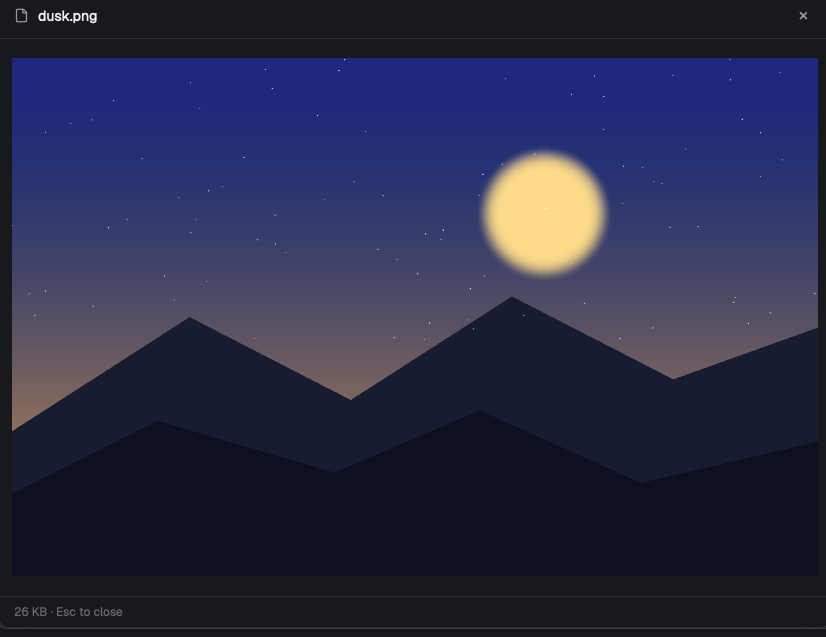
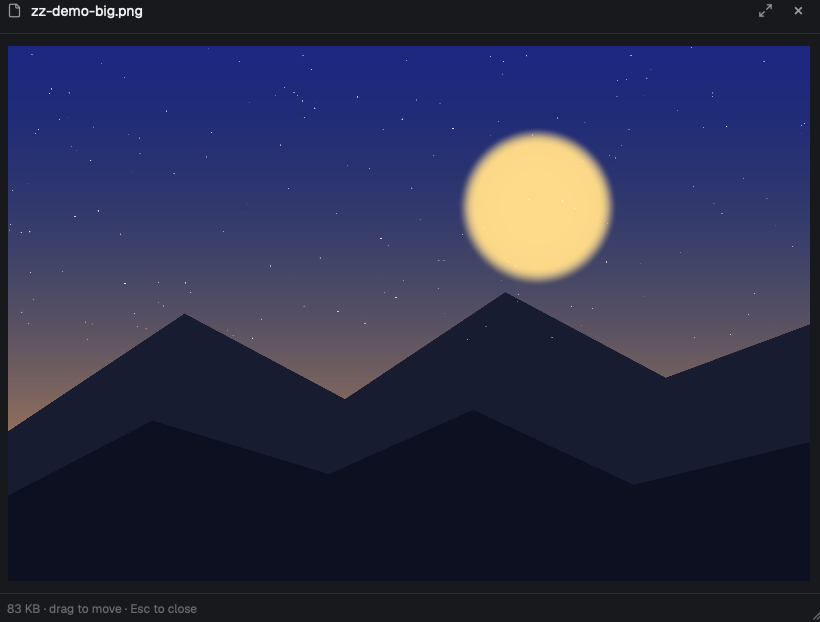
Open image previews on click in a movable, resizable window

diff --git a/mods/files-extras/main.js b/mods/files-extras/main.js
@@ -28,6 +28,30 @@ const MARKDOWN = new Set(["md", "markdown", "mdx"]);
 // An absolute POSIX path, or a Windows drive path (`C:\…` / `C:/…`).
 const absolutePath = (p) => p.startsWith("/") || /^[A-Za-z]:[\\/]/.test(p);
 const baseName = (p) => p.split(/[\\/]/).pop();
+// The preview window's smallest size and where it opens: a small margin
+// from the app window's top-left, leaving its tab bar visible.
+const PREVIEW_MIN = { width: 360, height: 260 };
+const previewAt = () => {
+  const v = previewViewport();
+  return v ? { x: Math.round(v.width * 0.015), y: Math.round(v.height * 0.03) } : { x: 40, y: 64 };
+};
+const clamp = (n, lo, hi) => Math.min(hi, Math.max(lo, n));
+// `herdr`'s `window` is the app's platform object; the global one is GPUI's
+// window and knows the drawable area. Overlay sizes are zoomed layout px,
+// while `at` and the viewport are window pixels, so the two are not the
+// same unit when the person has zoomed the app.
+const previewViewport = () => {
+  try {
+    const v = globalThis.window?.viewport_size?.();
+    return v && Number.isFinite(v.width) && v.width > 0 ? v : null;
+  } catch {
+    return null;
+  }
+};
+const previewZoom = () => {
+  const z = Number(settings().zoom);
+  return Number.isFinite(z) && z > 0 ? z : 1;
+};
 const PER_FOLDER = 500, TOTAL = 5000;
 // Search candidates: files only, capped like the tree is. The extra head
 // line reports the truncation.
@@ -168,9 +192,24 @@ export default class Files extends View {
       this.rename.input.on("submit", (_e, cx) => this.doRename(cx));
       this.handle = cx.focus_handle(); this.handle.focus(); return;
     }
-    // The image preview is another popup with props { image: { source, name, on } }.
+    // The image preview is a movable, resizable window with
+    // props { image: { source, name, on } }.
     this.picture = props()?.image ?? null;
-    if (this.picture) { this.handle = cx.focus_handle(); this.handle.focus(); this.loadPicture(cx); return; }
+    if (this.picture) {
+      this.handle = cx.focus_handle(); this.handle.focus();
+      const view = previewViewport() ?? { width: 1200, height: 800 };
+      const at = previewAt(), zoom = previewZoom();
+      this.zoom = zoom;
+      this.maxW = Math.max(PREVIEW_MIN.width, Math.floor((view.width - at.x - 24) / zoom));
+      this.maxH = Math.max(PREVIEW_MIN.height, Math.floor((view.height - at.y - 48) / zoom));
+      // Every click starts filled; the header button or the corner grip
+      // changes this copy, not a remembered size from another one.
+      this.w = this.maxW;
+      this.h = this.maxH;
+      this.drag = null;
+      this.loadPicture(cx);
+      return;
+    }
     this.saved = new Map();
     this.entries = new Map(); this.folders = new Set(); this.pending = new Set(); this.marks = {};
     this.uploading = false;
@@ -293,10 +332,14 @@ export default class Files extends View {
   show(path, cx) {
     this.code?.release(); this.code = null; this.md = null; this.file = path; this.fileError = null;
     if (!path || !cx) return;
-    // The panel shows text; an image belongs in the preview popup.
-    if (isImage(path)) { this.fileError = "Image · right-click and choose Preview image…"; return; }
     const context = this.context, root = this.root, on = this.on;
     const target = absolutePath(path) ? path : `${root}/${path}`;
+    // An image opens in its own window; the panel stays on the tree.
+    if (isImage(path)) {
+      this.file = null;
+      this.openPicture({ source: target, name: baseName(path), on });
+      return;
+    }
     cx.spawn(async cx => {
       try {
         const text = await readTextFile(target, { on });
@@ -355,7 +398,10 @@ export default class Files extends View {
       if (out.length >= TOTAL) break;
       const path = prefix ? `${prefix}/${entry.name}` : entry.name, open = this.folders.has(path), mark = this.marks[`${this.root}/${path}`];
       out.push(h_flex().id(`file-${path}`).h(28).flex_none().pl(8 + depth * 18).pr(8).gap(7).items_center().rounded(7).cursor_pointer().hover(s => s.bg(t.hover))
-        .on_click((_e, cx) => entry.dir ? this.toggle(path, cx) : this.show(path, cx))
+        .on_click((_e, cx) => {
+          if (entry.dir) this.toggle(path, cx);
+          else { this.show(path, cx); cx.notify(); }
+        })
         .on_mouse_down("right", (_e, cx) => { cx.stop_propagation(); this.openMenu(path, entry); })
         .when(entry.dir, el => el.on_drop((e, cx) => { cx.stop_propagation(); this.onDrop(e.paths, path, cx); }))
         .child(entry.dir ? svg(`mods/files-extras/chevron-${open ? "down" : "right"}.svg`).size(12).flex_none().text_color(t.dim) : div().w(12).flex_none())
@@ -490,7 +536,7 @@ export default class Files extends View {
       else if (e.key === "escape") this.back(cx);
       return;
     }
-    if (e.key === "enter" && !this.menu.rootMenu) this.menu.image ? this.openPicture() : this.choose();
+    if (e.key === "enter" && !this.menu.rootMenu) this.menu.image ? this.openPicture(this.menu, true) : this.choose();
     else if (e.key === "u") this.chooseUpload();
     else if (e.key === "r" && !this.menu.rootMenu) this.startRename(cx);
     else if (e.key === "d" && !this.menu.rootMenu) this.confirmDelete(cx);
@@ -647,11 +693,21 @@ export default class Files extends View {
         .children(runs(0, base, t.muted, t.dim)));
   }
 
-  openPicture() {
-    const menu = this.menu;
-    openOverlay({ mod: "files-extras", kind: "popup", width: 760, height: 580,
-      props: { image: { source: menu.source, name: menu.name, on: menu.on } } });
-    closeOverlay(props().overlay);
+  // A click on an image opens this, and so does the menu's Preview row: one
+  // movable, resizable window, kept for the next image by its key.
+  openPicture(image, fromMenu = false) {
+    openOverlay({ mod: "files-extras", kind: "window", key: "files-extras-image", at: previewAt(),
+      props: { image: { source: image.source, name: image.name, on: image.on } } });
+    if (fromMenu) closeOverlay(props().overlay);
+  }
+
+  // The header's size button: fill the app window or shrink to 760 × 580.
+  toggleSize(cx) {
+    const big = this.w >= this.maxW - 2 && this.h >= this.maxH - 2;
+    this.w = big ? Math.min(760, this.maxW) : this.maxW;
+    this.h = big ? Math.min(580, this.maxH) : this.maxH;
+    if (this.drag) this.drag = null;
+    cx.notify();
   }
 
   renderMenu() {
@@ -681,35 +737,67 @@ export default class Files extends View {
       .when(this.mode === "menu", el => (m.rootMenu
         ? el.child(row("files-menu-upload", "upload", "Upload files…", "u", () => this.chooseUpload()))
         : el
-          .when(Boolean(m.image), el => el.child(row("files-menu-preview", "preview", "Preview image…", "enter", () => this.openPicture())))
+          .when(Boolean(m.image), el => el.child(row("files-menu-preview", "preview", "Preview image…", "enter", () => this.openPicture(m, true))))
           .child(row("files-menu-download", "download", m.dir ? "Download as zip…" : "Download…", m.image ? "" : "enter", () => this.choose()))
           .child(row("files-menu-upload", "upload", "Upload files…", "u", () => this.chooseUpload()))
           .child(row("files-menu-rename", "rename", "Rename…", "r", (_e, cx) => this.startRename(cx)))
           .child(row("files-menu-delete", "trash", "Delete…", "d", (_e, cx) => this.confirmDelete(cx)))));
   }
 
+  // The corner grip: window pixels in, zoomed layout pixels out.
+  resizeTo(e, cx) {
+    if (!this.drag) return;
+    const z = this.zoom || 1;
+    const w = clamp(this.drag.w + (e.position.x - this.drag.x) / z, PREVIEW_MIN.width, this.maxW);
+    const h = clamp(this.drag.h + (e.position.y - this.drag.y) / z, PREVIEW_MIN.height, this.maxH);
+    if (w !== this.w || h !== this.h) { this.w = w; this.h = h; cx.notify(); }
+  }
+
   renderPicture(cx) {
     const t = theme(), p = this.picture;
-    // A fixed budget keeps the popup and the picture stable: measuring the
-    // content would feed the picture's own size back into it.
-    const maxW = 760 - 24;
-    const maxH = 580 - 42 - 28 - 24;
-    return v_flex().id("files-picture").track_focus(this.handle).size_full().min_h(0).rounded(10).overflow_hidden()
+    // The card's own width and height are the window's content size: the
+    // host follows them when the corner grip or the header button changes
+    // them. A fixed budget would clip a large picture.
+    const maxW = Math.max(0, this.w - 24);
+    const maxH = Math.max(0, this.h - 42 - 28 - 24);
+    const big = this.w >= this.maxW - 2 && this.h >= this.maxH - 2;
+    const button = (id, icon, action) => div().id(id).w(22).h(22).flex_none().rounded(5).flex().items_center().justify_center()
+      .text_color(t.muted).cursor_pointer().hover(s => s.bg(t.hover).text_color(t.foreground))
+      .on_mouse_down("left", (_e, cx) => cx.stop_propagation())
+      .on_click(action)
+      .child(svg(`mods/files-extras/${icon}.svg`).size(14));
+    return v_flex().id("files-picture").track_focus(this.handle).relative()
+      .w(this.w).h(this.h).min_w(0).min_h(0).rounded(10).overflow_hidden()
       .bg(t.background).border_1().border_color(t.border).text_color(t.foreground).text_size(13)
       .on_key_down(e => { if (e.key === "escape") closeOverlay(props().overlay); })
+      // Dragging the corner follows the pointer; the header drags the whole
+      // window (the host starts it on any press we do not stop).
+      .on_mouse_move((e, cx) => this.resizeTo(e, cx))
+      .on_mouse_up("left", () => { this.drag = null; })
       .child(h_flex().h(42).flex_none().px(14).gap(8).items_center().border_b(1).border_color(t.border)
         .child(svg("mods/files-extras/file.svg").size(14).flex_none().text_color(t.muted))
         .child(div().flex_1().min_w(0).truncate().child(p.name))
-        .when(Boolean(p.on), el => el.child(div().flex_none().max_w(160).truncate().text_size(12).text_color(t.dim).child(`on ${p.on}`)))
+        .when(Boolean(p.on), el => el.child(div().flex_none().max_w(120).truncate().text_size(12).text_color(t.dim).child(`on ${p.on}`)))
+        .child(button("files-picture-size", big ? "collapse" : "expand", (_e, cx) => this.toggleSize(cx)))
         .child(div().id("files-picture-close").w(22).h(22).flex_none().rounded(5).flex().items_center().justify_center()
           .text_size(16).text_color(t.muted).cursor_pointer().hover(s => s.bg(t.hover).text_color(t.foreground))
+          .on_mouse_down("left", (_e, cx) => cx.stop_propagation())
           .on_click(() => closeOverlay(props().overlay)).child("×")))
       .child(div().id("files-picture-body").flex_1().min_h(0).p(12).flex().items_center().justify_center().overflow_hidden()
         .when(Boolean(this.pictureError), el => el.child(div().max_w(420).text_center().text_size(12.5).text_color(t.dim).child(this.pictureError)))
         .when(!this.pictureError && !this.staged, el => el.child(div().text_size(12.5).text_color(t.dim).child("Loading image…")))
         .when(Boolean(this.staged), el => el.child(image(this.staged.path).max_w(maxW).max_h(maxH))))
-      .when(Boolean(this.staged), el => el.child(h_flex().h(28).flex_none().px(14).items_center().border_t(1).border_color(t.border)
-        .child(div().text_size(11).text_color(t.dim).child(`${sizeText(this.bytes)} · Esc to close`))));
+      .when(Boolean(this.staged), el => el.child(h_flex().h(28).flex_none().px(14).pr(22).items_center().border_t(1).border_color(t.border)
+        .child(div().text_size(11).text_color(t.dim).child(`${sizeText(this.bytes)} · drag to move · Esc to close`))))
+      .child(div().id("files-picture-grip").absolute().bottom(3).right(3).w(14).h(14).flex().items_center().justify_center()
+        .cursor_nwse_resize()
+        .on_mouse_down("left", (e, cx) => {
+          cx.stop_propagation();
+          this.drag = { x: e.position.x, y: e.position.y, w: this.w, h: this.h };
+        })
+        .on_mouse_move((e, cx) => this.resizeTo(e, cx))
+        .on_mouse_up("left", () => { this.drag = null; })
+        .child(svg("mods/files-extras/resize.svg").size(14).text_color(t.dim)));
   }
 
   render(cx) {

diff --git a/RECIPE.md b/RECIPE.md
@@ -4,7 +4,7 @@
 
 ![The Download menu over the Files panel](preview.png)
 
-![The image preview popup](image-preview.png)
+![The image preview window](image-preview.png)
 
 A Herdr mod: the app's shipped Files panel, forked and given a right-click
 menu that downloads a file to this Mac (a file on another machine is brought
@@ -12,7 +12,7 @@ back from there), downloads a folder as a zip, and renames or deletes an
 entry. Files and folders can be dragged in from Finder — or picked from a
 native dialog — to land in the folder being browsed, even when it lives on
 another machine. `.md` files preview as rendered Markdown, and an image
-previews in a popup. Everything else — the lazy tree, git status marks, text
+previews in a window. Everything else — the lazy tree, git status marks, text
 preview — is the shipped panel.
 
 ## What you see
@@ -39,17 +39,20 @@ preview — is the shipped panel.
   (preview for an image, download otherwise); Esc or a press outside closes
   the menu. Rename turns the rows into a name field; Delete turns them into a
   confirmation.
-- **Preview**: a selected file replaces the tree. The header shows its name;
-  body text is a read-only editor at 12 px with the theme's syntax colours,
-  or the Markdown view for `.md`. A NUL byte reads as "Binary file · no text
-  preview"; an image says "Image · right-click and choose Preview image…";
-  unreadable files say so.
-- **Image preview** is a 760 × 580 pointer popup holding a card like the
-  panel's. Its 42 px header has a 14 px file icon, the name truncated, `on
-  <machine>` when needed, and a 22 px ✕. The body is 12 px padding with the
-  picture centred and scaled down to fit; the 28 px footer says `<size> · Esc
-  to close`. Esc, ✕ or a press outside closes it, and the temp copy goes with
-  it.
+- **Preview**: a selected text file replaces the tree. The header shows its
+  name; body text is a read-only editor at 12 px with the theme's syntax
+  colours, or the Markdown view for `.md`. A NUL byte reads as "Binary file ·
+  no text preview"; unreadable files say so. An image does not use this view:
+  clicking it opens the image window and the tree stays as it was.
+- **Image preview** is a movable window that opens filled to the work area: a
+  card like the panel's. Its 42 px header has a 14 px file icon, the name
+  truncated, `on <machine>` when needed, a fill/compact button, and a 22 px
+  ✕. The body is 12 px padding with the picture centred and scaled to fit;
+  the 28 px footer says `<size> · drag to move · Esc to close`. Drag the
+  header to move it and the bottom-right grip to resize it; the header button
+  toggles between filled and 760 × 580. Clicking an image in the tree or a
+  search result opens it, and the menu's **Preview image…** does the same.
+  Esc or ✕ closes it, and the temp copy goes with it.
 
 ## The panel
 
@@ -153,11 +156,25 @@ preview — is the shipped panel.
 ## Image previews
 
 - **Which files**: the extension is one of png, jpg/jpeg, gif, webp, bmp, ico,
-  tif/tiff or svg (`image.js`). The menu gets the extra row; Enter previews.
-- **The popup** is another copy of this mod:
-  `openOverlay({ mod: "files-extras", kind: "popup", width: 760, height: 580,
-  props: { image: { source, name, on } } })`. Its `init` focuses a handle for
-  Esc and calls `loadPicture`.
+  tif/tiff or svg (`image.js`). Clicking the row opens the window; the menu
+  gets the extra Preview row (Enter previews).
+- **Opening**: `openPicture` is the one path, used by `show` for a click (tree
+  or search) and by the menu's Preview row:
+  `openOverlay({ mod: "files-extras", kind: "window", key:
+  "files-extras-image", at: previewAt(), props: { image: { source, name, on }
+  } })`. It is a `window`, not a popup: it drags by any press the mod does not
+  stop, stays open until closed, and replaces the previous preview by its key.
+  Its `init` focuses a handle for Esc and calls `loadPicture`.
+- **Fill and resize**: the card's own `w(this.w).h(this.h)` is the window's
+  content size, so the host follows it. `init` sets `this.w/h` to the filled
+  size; the bottom-right grip's `on_mouse_move` changes them and the header
+  button toggles between that size and 760 × 580. The host anchors content
+  growth at `at`, so the gripper moves the corner rather than the card's
+  centre.
+- **Sizing units**: `window.viewport_size()` (the global GPUI window, not
+  `herdr`'s platform object) is in window px, and so is `at`; overlay
+  `width`/`height` are zoomed layout px. `init` divides the viewport budget
+  by `settings().zoom`; the grip divides pointer deltas by the same zoom.
 - **Why a copy**: `image()` resolves a path from `~/.config/herdr-app`, not
   from the file that asked; an absolute path draws nothing. `stageImage`
   copies the picture to `data/files-preview-<time>-<rand>/image.<ext>`, which
@@ -167,11 +184,10 @@ preview — is the shipped panel.
 - **Limits**: `wc -c` (or `(Get-Item).Length`) reads the size first: missing
   says "This file is no longer available", empty says "This image is empty",
   over 32 MB names the limit. A staging failure shows the command's error.
-- **Sizing**: the picture is `image(path).max_w(736).max_h(486)`, which
-  scales it down and keeps its shape without enlarging it. Those are the
-  popup's 760 × 580 less the 24 px padding, 42 px header and 28 px footer.
-  Measuring the body instead feeds the picture's size back into it, so the
-  budget stays fixed.
+- **Picture size**: the picture is `image(path).max_w(this.w - 24).max_h(this.h
+  - 42 - 28 - 24)`, which scales it down and keeps its shape without enlarging
+  it. The card size is therefore the budget, so a big window shows a big
+  picture rather than clipping a fixed one.
 - **Cleanup**: `close(cx)` removes the temp folder, including a stage the
   copy is still filling: `stageImage`'s `onDir` records the folder as soon as
   it exists, and `close` removes it by name.
@@ -196,15 +212,24 @@ preview — is the shipped panel.
 - `md.js` — the Markdown renderer, adapted from
   [herdr-openspec](https://github.com/AshMcConnell/herdr-openspec) (MIT),
   plus GFM tables. It uses the fixed Tokyo Night palette.
-- `download.svg`, `upload.svg`, `rename.svg`, `trash.svg` and `preview.svg` —
-  the lucide download, upload, pencil, trash and eye glyphs;
-  chevron, file and folder icons are the shipped ones.
-  chevron, file and folder icons are the shipped ones.
+- `download.svg`, `upload.svg`, `rename.svg`, `trash.svg`, `preview.svg`,
+  `expand.svg`, `collapse.svg` and `resize.svg` — the lucide download, upload,
+  pencil, trash and eye glyphs, the maximize/minimize pair, and the corner
+  grip; chevron, file and folder icons are the shipped ones.
 
 ## Watch out
 
 - `image()` takes an app-relative path: an absolute path draws nothing. That is
   why previews are staged under `data/files-preview-*` first.
+- A window overlay sized by its content follows `w()`/`h()` changes; one
+  opened with `width`/`height` does not, so the preview deliberately leaves
+  both out. The host anchors growth at `at`, which keeps the resize grip's
+  pointer math stable.
+- Overlay `width`/`height` are zoomed layout px while `at` and
+  `viewport_size()` are window px; divide by `settings().zoom`. On this Mac
+  the zoom was 1.1, so a 760 px card rendered about 836 px wide.
+- A window does not take the keyboard when it opens; the preview focuses its
+  own handle in `init` so Esc works. A popup still takes it.
 - `writeTextFile` stops at 1 MiB and `exec` at 8 MiB; the part and chunk
   sizes are set from those limits. Bigger limits allow bigger pieces.
 - `exec` rejects for a machine it does not know, so the remote path has to
@@ -234,9 +259,11 @@ preview — is the shipped panel.
   `~/Downloads` first, then the last folder used; the saved bytes match
   (`cmp`).
 - Right-clicking a folder saves a zip that unzips to the same tree.
-- Right-clicking an image shows Preview image…; the popup draws it scaled to
-  fit, Esc and ✕ close it, and its `data/files-preview-*` folder is gone
-  afterwards. A file over 32 MB says so.
+- Clicking an image opens the preview window filled to the work area; a
+  right-click → Preview image… does the same. Drag the header to move it, the
+  bottom-right grip to resize it, and the header button to shrink it to
+  760 × 580 and back. Esc and ✕ close it, and its `data/files-preview-*`
+  folder is gone afterwards. A file over 32 MB says so.
 - On a space on another machine, all of these still work and the bytes match.
 - A cancel in the save panel does nothing; a failure shows an error toast.
 - Dropping files onto the tree lands them in the root, and onto a folder

diff --git a/README.md b/README.md
@@ -5,24 +5,26 @@ Herdr's Files panel with **right-click downloads**, **drag & drop uploads**,
 copy to this Mac, or a folder to download it as a zip; a space on another
 machine works the same way and the file is copied back from there. Drag files
 or folders from Finder onto the tree to put them in the folder being browsed —
-on this machine or on another one. Right-click an image to see it in a popup.
+on this machine or on another one. Click an image to open it in a window.
 
 It is a fork of Herdr's shipped `files` mod, so the lazy tree, git status
 marks and text preview stay exactly as they were.
 
 ![The Download menu over the Files panel](preview.png)
 
-Right-click an image and choose **Preview image…**; the popup scales the
-picture to fit:
+Clicking an image opens it in a window. Drag its header to move it and its
+bottom-right corner to resize it; the header button switches between the
+filled size and 760 × 580:
 
-![An image preview popup](image-preview.png)
+![An image preview window](image-preview.png)
 
 ## What it adds
 
-- **Right-click an image → Preview image…** The picture opens in a popup,
-  scaled to fit and up to 32 MB. Esc, the ✕, or a click outside closes it; the
-  temp copy goes with it. An image on another machine is brought back first,
-  like a download.
+- **Click an image → preview window** — the picture opens filled, up to 32 MB.
+  Drag the header to move it and the bottom-right corner to resize it; the
+  header button toggles between filled and 760 × 580. Esc or ✕ closes it, and
+  the temp copy goes with it. **Right-click → Preview image…** does the same.
+  An image on another machine is brought back first, like a download.
 - **Right-click a file → Download…** A save panel opens at the last folder
   you used (the first time, `~/Downloads`). The file is copied there; on a
   space on another machine it is first brought back from that machine.
@@ -126,15 +128,18 @@ edit in the checkout never reloads it).
 
 ## How image previews work
 
+- Clicking an image, or **right-click → Preview image…**, opens a movable,
+  resizable window. It starts filled to the work area; the header button
+  shrinks it to 760 × 580, and the bottom-right grip resizes it freely.
 - Herdr's `image()` loads pictures from its own folder
   (`~/.config/herdr-app`), not from an absolute path. So an image is copied
   first to `data/files-preview-<time>-<random>/image.<ext>`; a local file is a
   `cp`, and a file on another machine takes the same base64 trip as a
-  download. The temp folder is removed when the popup closes.
+  download. The temp folder is removed when the window closes.
 - The size is read before the copy. Previews stop at 32 MB; a missing file,
-  an empty file and a staging failure each say what happened in the popup.
-- The picture keeps its shape and is scaled down to fit; a small picture is
-  not enlarged.
+  an empty file and a staging failure each say what happened in the window.
+- The picture keeps its shape and is scaled down to fit the window; a small
+  picture is not enlarged.
 
 ## What it runs
 
